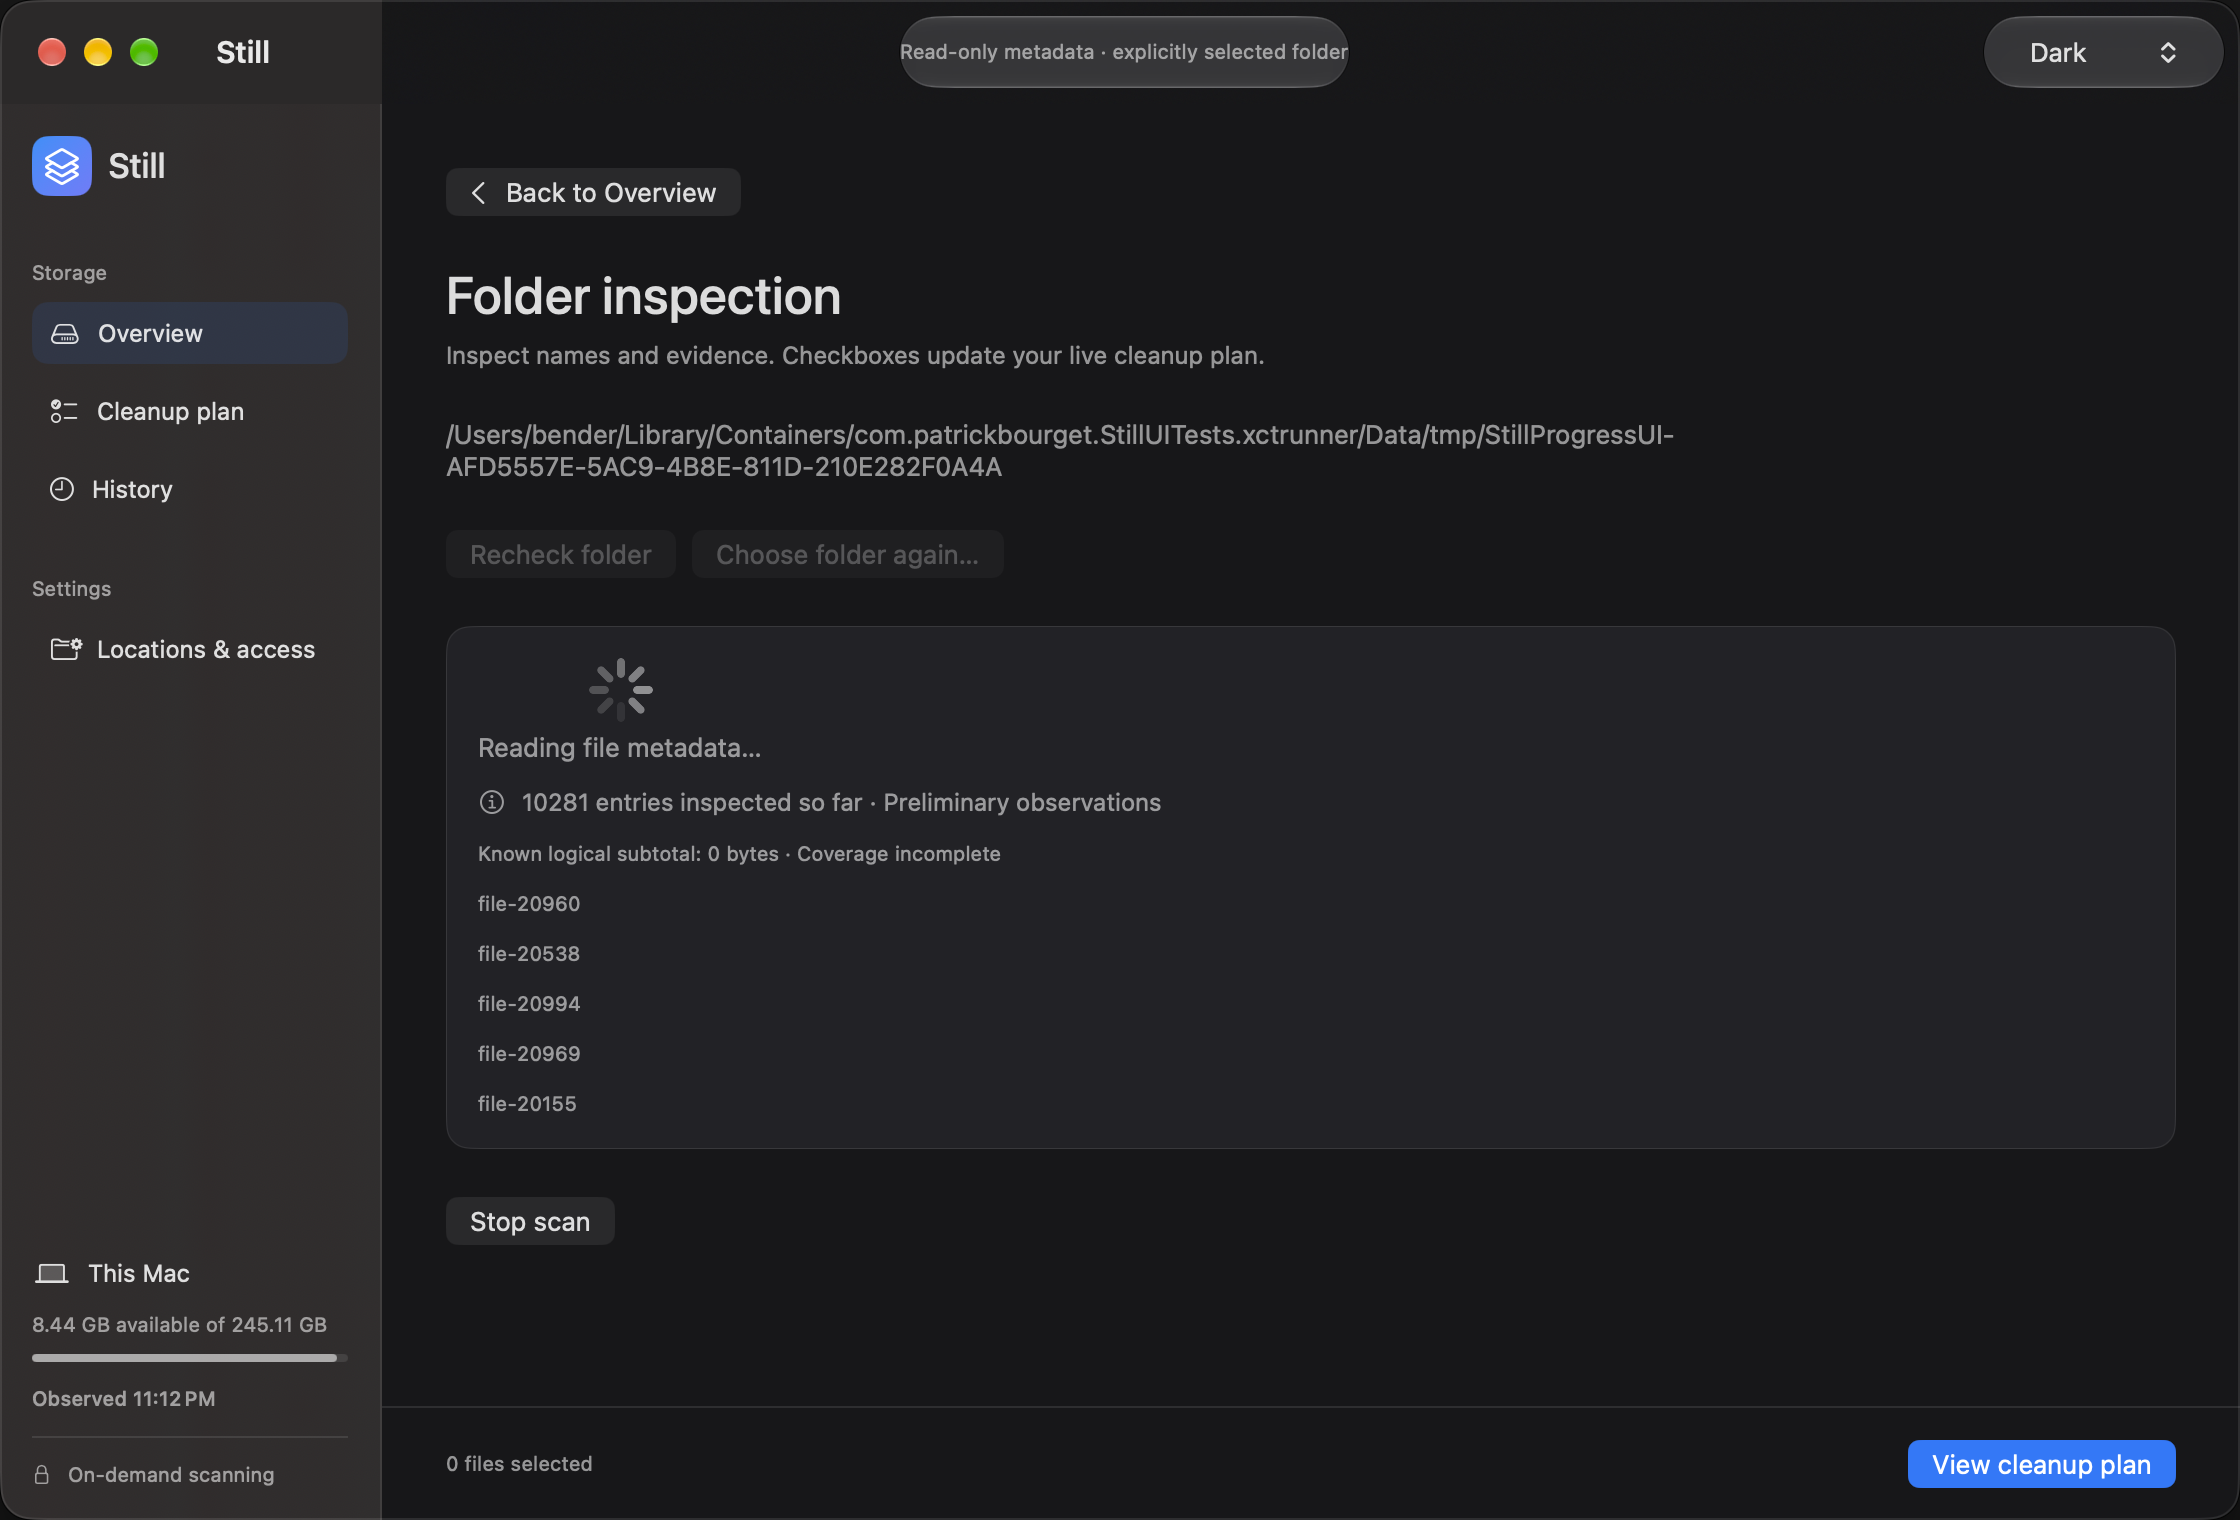
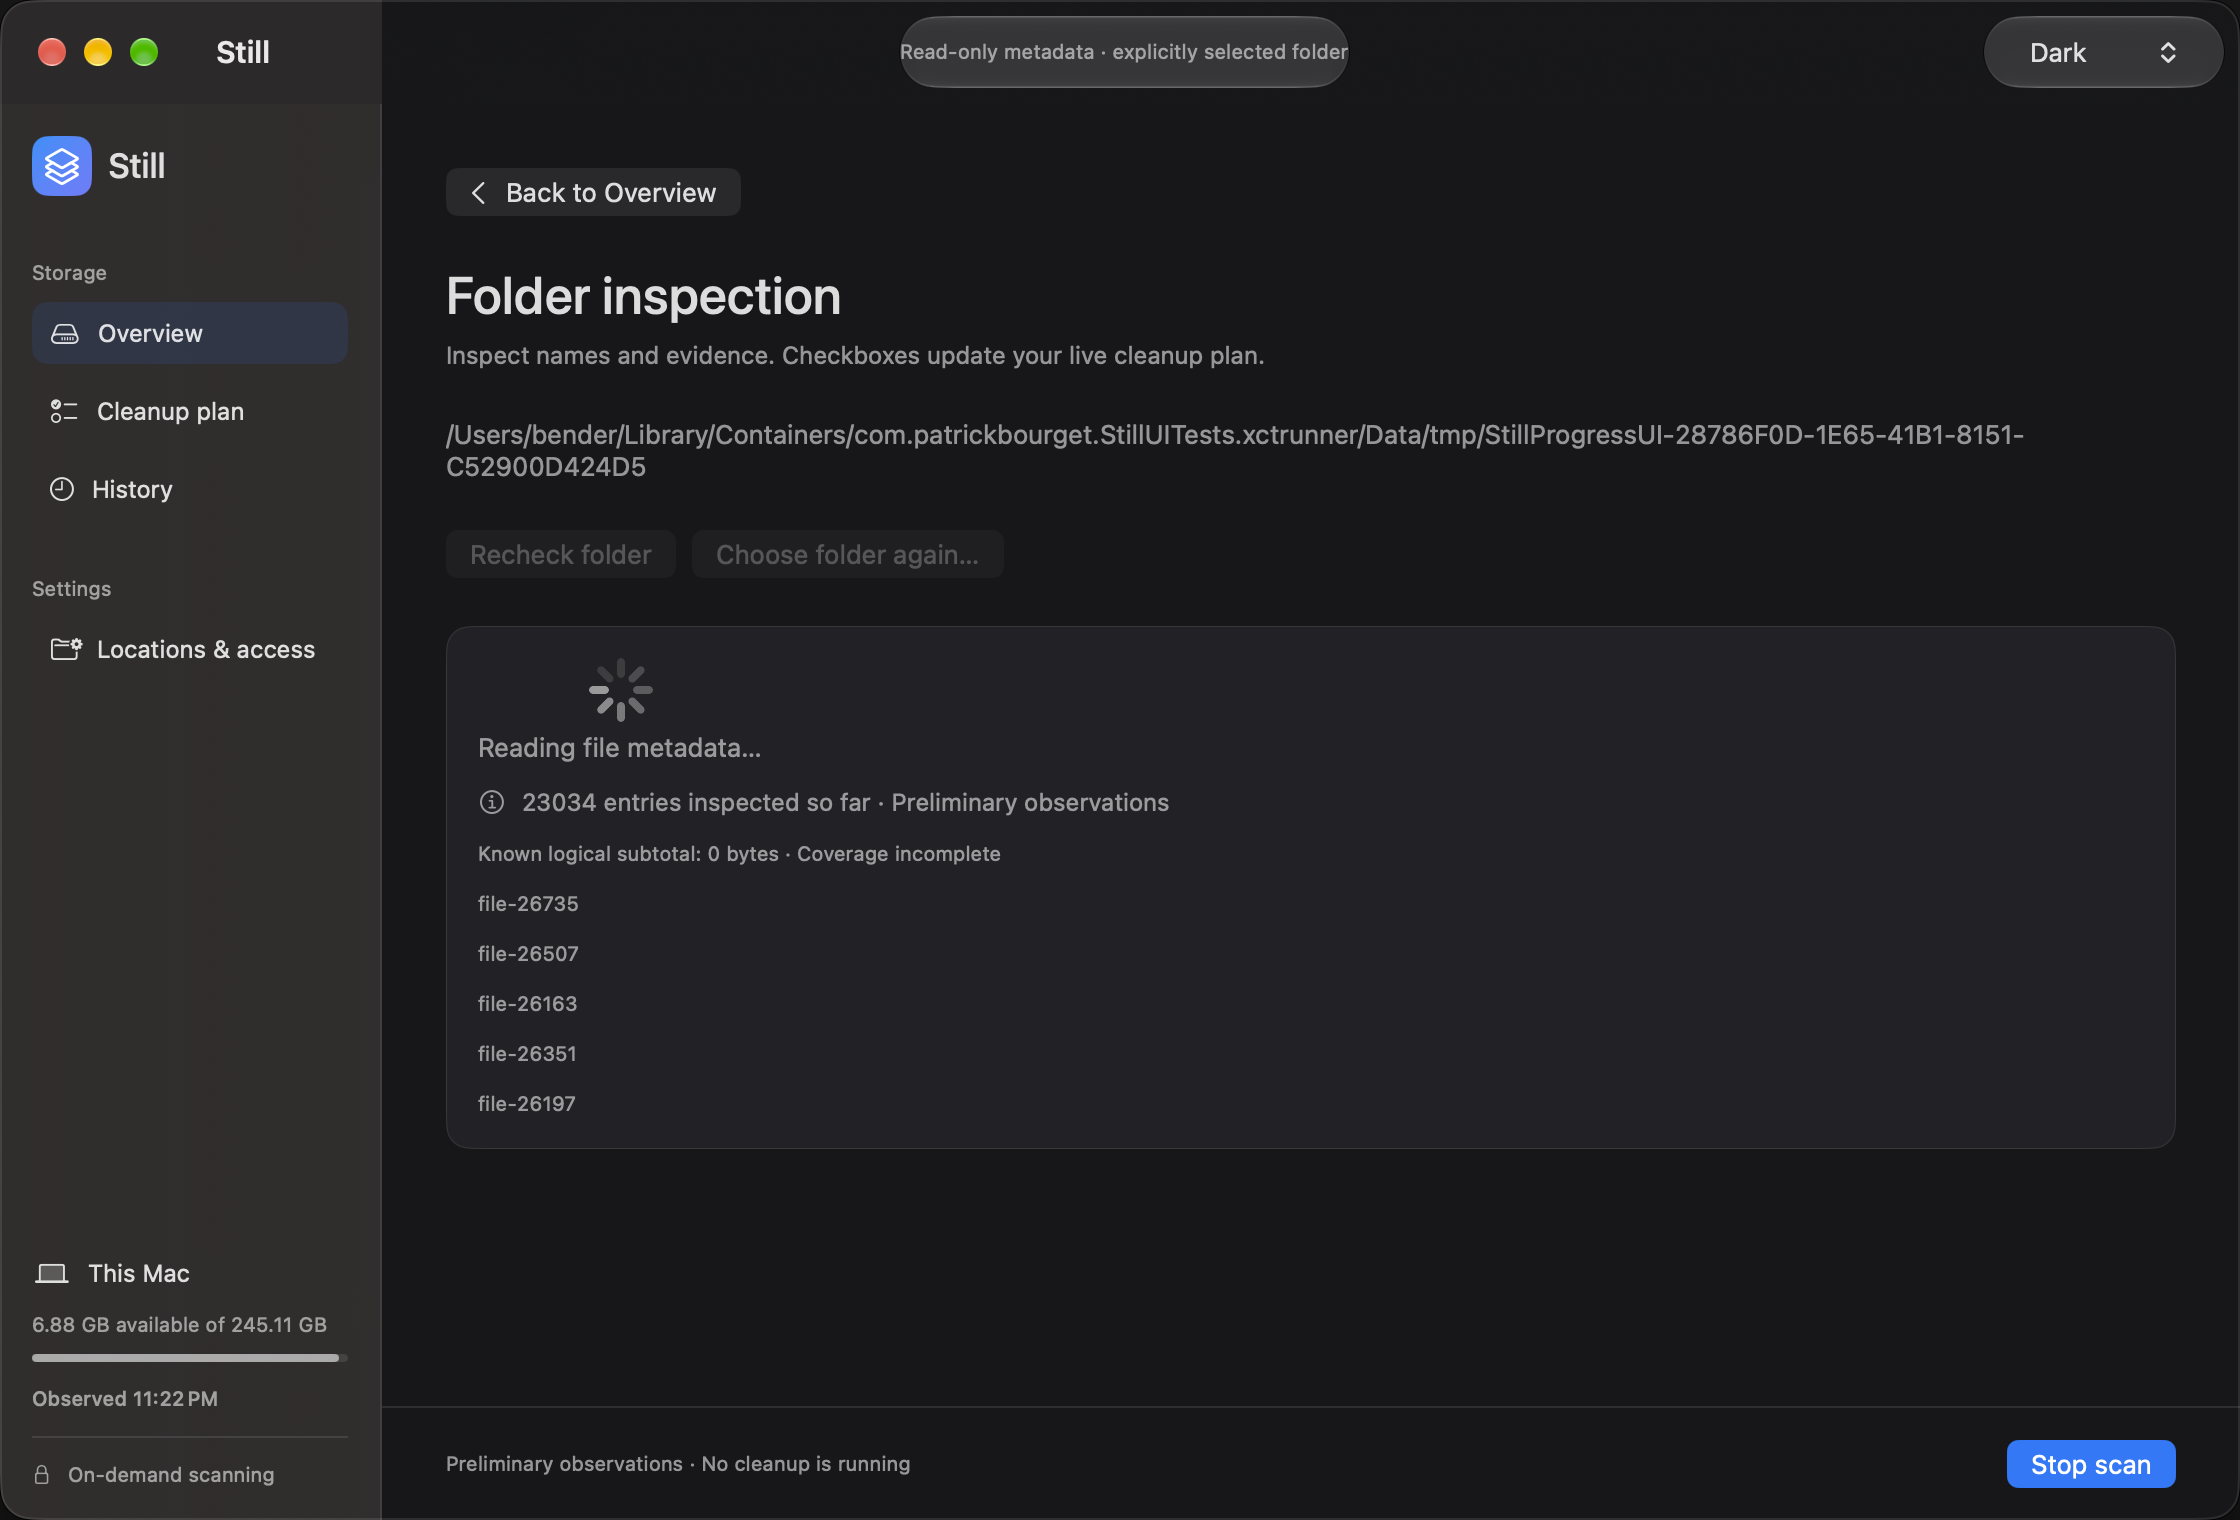
Keep scan cancellation reachable at initial and minimum window sizes

diff --git a/Still/UITests/WorkspaceUITests.swift b/Still/UITests/WorkspaceUITests.swift
@@ -351,6 +351,14 @@ final class WorkspaceUITests: XCTestCase {
 
     @MainActor
     func testOwnedLargeScanShowsBoundedProgressAndAcknowledgesStop() throws {
+        try assertOwnedProgress(minimum: false)
+    }
+    @MainActor
+    func testMinimumOwnedLargeScanKeepsProgressAndStopReachable() throws {
+        try assertOwnedProgress(minimum: true)
+    }
+    @MainActor
+    private func assertOwnedProgress(minimum: Bool) throws {
         continueAfterFailure = false
         let manager = FileManager.default
         let temporary = manager.temporaryDirectory
@@ -366,7 +374,7 @@ final class WorkspaceUITests: XCTestCase {
             }
         }
         let app = XCUIApplication()
-        app.launchArguments = ["--design-initial-size"]
+        app.launchArguments = [minimum ? "--design-minimum" : "--design-initial-size"]
         app.launch()
         XCTAssertTrue(app.buttons["Choose folder…"].waitForExistence(timeout: 5))
         let bounds = app.windows.firstMatch.frame
@@ -382,8 +390,10 @@ final class WorkspaceUITests: XCTestCase {
                 app.dialogs.buttons["Scan folder"].click()
             } else { app.buttons["Recheck folder"].click() }
             XCTAssertTrue(app.staticTexts["scanProgressSummary"].waitForExistence(timeout: 3))
+            XCTAssertTrue(app.buttons["Stop scan"].waitForExistence(timeout: 1))
+            XCTAssertTrue(bounds.contains(app.buttons["Stop scan"].frame))
             let shot = XCTAttachment(screenshot: app.windows.firstMatch.screenshot())
-            shot.name = "bounded-scan-progress-" + appearance; shot.lifetime = .keepAlways; add(shot)
+            shot.name = "bounded-scan-progress-" + (minimum ? "minimum-" : "") + appearance; shot.lifetime = .keepAlways; add(shot)
             app.scrollViews.firstMatch.scroll(byDeltaX: 0, deltaY: -40)
             app.buttons["Stop scan"].click()
             let stopped = app.staticTexts.matching(NSPredicate(format: "value CONTAINS[c] 'Stop requested' OR value CONTAINS[c] 'Scan stopped'"))

diff --git a/Still/App/StillApp.swift b/Still/App/StillApp.swift
@@ -161,7 +161,11 @@ private struct WorkspaceView: View {
                     }.padding(StillDesign.Space.page).frame(maxWidth: .infinity, alignment: .leading)
                 }
                 .safeAreaInset(edge: .bottom, spacing: 0) {
-                    if inspectionVisible {
+                    if nativeInspectionVisible && folderInspection.isScanning {
+                        ActionStrip(message: "Preliminary observations · No cleanup is running") {
+                            Button("Stop scan") { folderInspection.cancel() }.buttonStyle(.borderedProminent)
+                        }
+                    } else if inspectionVisible {
                         ActionStrip(message: nativeInspectionVisible ? "\(StillDesign.files(selection.draft.selectedCount)) selected" : "Nothing selected") {
                             Button("View cleanup plan") { nativeInspectionVisible = false; inspecting = false; destination = .plan }.buttonStyle(.borderedProminent)
                         }

diff --git a/Still/App/FolderInspection.swift b/Still/App/FolderInspection.swift
@@ -143,7 +143,6 @@ struct FolderInspectionView: View {
                         logicalSubtotal: bytes(progress.knownLogicalSubtotal),
                         recentNames: progress.recentObservations.prefix(5).map { $0.url.lastPathComponent })
                 } else { ProgressView("Reading file metadata…") }
-                Button("Stop scan") { model.cancel() }
             }
             if let message = model.message { StatusRow(text: message, symbol: "info.circle") }
             if let result = model.result {

diff --git a/docs/validation/scanner-performance.md b/docs/validation/scanner-performance.md
@@ -6,7 +6,7 @@ October 22, 2026. This implementation makes scanning progressive and bounded; **
 
 `FolderScanner.scan(_:cancellation:onProgress:)` preserves existing callers through optional default arguments. A serial scanner actor executes synchronous blocking metadata work off MainActor, without creating a task per file. Cancellation checks surround metadata boundaries; requesting `ScanCancellation.cancel()` is synchronous and independent of the busy actor. An already blocked filesystem/provider call must return before worker termination. No sub-second stop guarantee is claimed for an unresponsive OS provider.
 
-`ScanProgress` contains preliminary observed counts/subtotal and at most 256 recent observations. The first useful observation publishes immediately; later callbacks are coalesced to at most roughly ten per second plus the final flush. Native composition consumes a newest-one stream and checks the scan generation before applying updates/results. Preliminary progress has no selection or execution authority. Stop acknowledges immediately with explicit waiting guidance. `InspectionSession` checks task/token cancellation before updating its remembered reports.
+`ScanProgress` contains preliminary observed counts/subtotal and at most 256 recent observations. The first useful observation publishes immediately; later callbacks are coalesced to at most roughly ten per second plus the final flush. Native composition consumes a newest-one stream and checks the scan generation before applying updates/results. During an active native scan, the existing Stop action occupies the shared fixed bottom action strip so it stays reachable at minimum size. Preliminary progress has no selection or execution authority. Stop acknowledges immediately with explicit waiting guidance. `InspectionSession` checks task/token cancellation before updating its remembered reports.
 
 Each scan retains at most 100,000 entries, depth 64 and 1,000 ordinary issues plus a terminal bound explanation. Reaching a bound is partial coverage, never a complete scope total. Scope protections, packages, link identity de-duplication, unknown allocation/cloud metadata and volume-versus-inventory distinctions remain intact. An identity/type change during metadata collection is rejected before publishing that row. This is observation consistency, not atomic execution safety.
 
@@ -45,6 +45,8 @@ A genuine mounted-volume boundary/unmount fixture, a positively compressed file,
 
 ## Native journey and checks
 
-50 StillCore tests passed. Native build-for-testing passed. Focused `testOwnedLargeScanShowsBoundedProgressAndAcknowledgesStop` passed (1/1, 30.58 seconds), using its own 50,000-file tree, actual folder picker and both appearances. It observes preliminary progress within its three-second wait, scrolls during scanning, clicks Stop and observes acknowledgement/stopped text within a one-second wait, preserves window bounds, exposes no Review cleanup action from preliminary observations and verifies its sentinel remains present. This is focused journey evidence, not a full-suite run or blocked-provider termination guarantee.
+50 StillCore tests passed. Native build-for-testing passed after merging integration `6c641fc`. Final focused initial-size and minimum-size public Stop journeys passed **2/2** (75.72 seconds total test time), each using its own 50,000-file tree, actual folder picker and both appearances. They observe preliminary progress within a three-second wait, verify Stop's frame remains inside the window, scroll during scanning, click Stop and observe acknowledgement/stopped text within a one-second wait, preserve window bounds, expose no Review cleanup action from preliminary observations and verify the owned sentinel remains present. This is focused journey evidence, not a full-suite run or blocked-provider termination guarantee.
 
-Actually inspected [Light](../visual/scanner-progress/progress-Light.png) and [Dark](../visual/scanner-progress/progress-Dark.png) native captures at 1120×760: shared surfaces, white light sidebar, bounded five-name preview, incomplete-coverage message and reachable Stop control. The component also has an inert gallery example. These captures cover the changed progress presentation; they do not repeat every screen's design review. OS accessibility, minimum-size progress review and deployment-target qualification remain separate gates.
+The first fixed-strip verification failed a pre-click `isHittable` assertion although its video showed Stop visible in the fixed slot. Final tests verify geometry and actual interaction rather than treating that accessibility flag as the user outcome. No fixed delay or larger fixture was added to mask it. Earlier initial/minimum progress journeys also passed before Stop moved into the persistent strip; they are not substituted for final validation.
+
+Actually inspected [Light](../visual/scanner-progress/progress-Light.png), [Dark](../visual/scanner-progress/progress-Dark.png), [minimum Light](../visual/scanner-progress/progress-minimum-Light.png) and [minimum Dark](../visual/scanner-progress/progress-minimum-Dark.png) native captures at 1120×760 and 900×640: shared surfaces, white light sidebar, bounded five-name preview, incomplete-coverage message and fixed reachable Stop control. The component also has an inert gallery example. These captures cover the changed progress presentation; they do not repeat every screen's design review. OS accessibility and deployment-target qualification remain separate gates.
